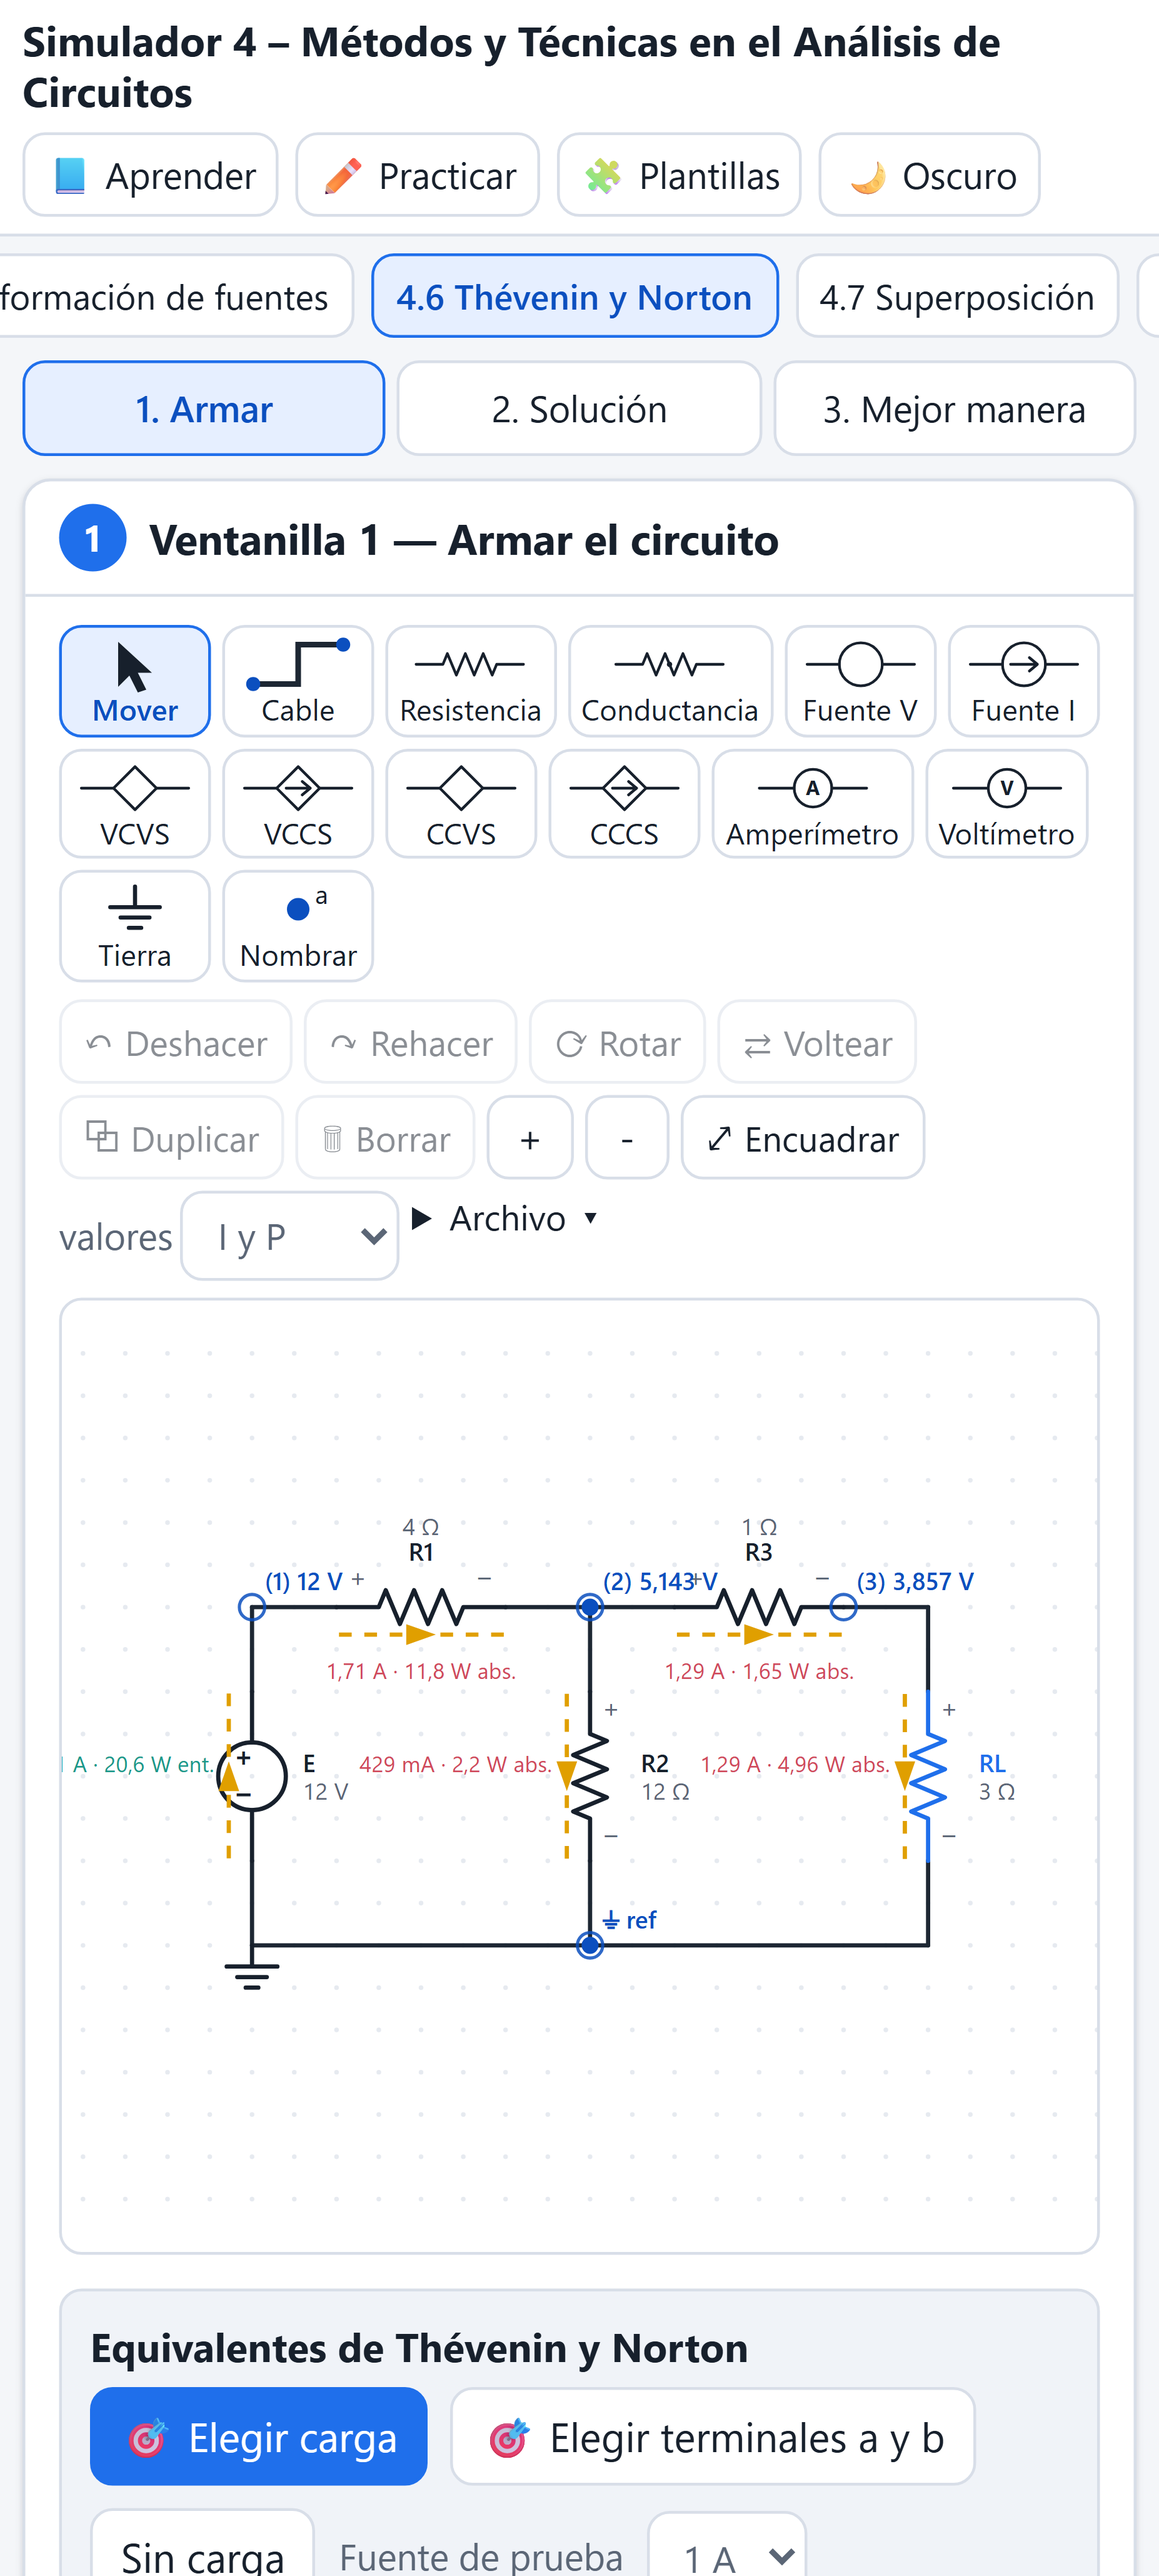
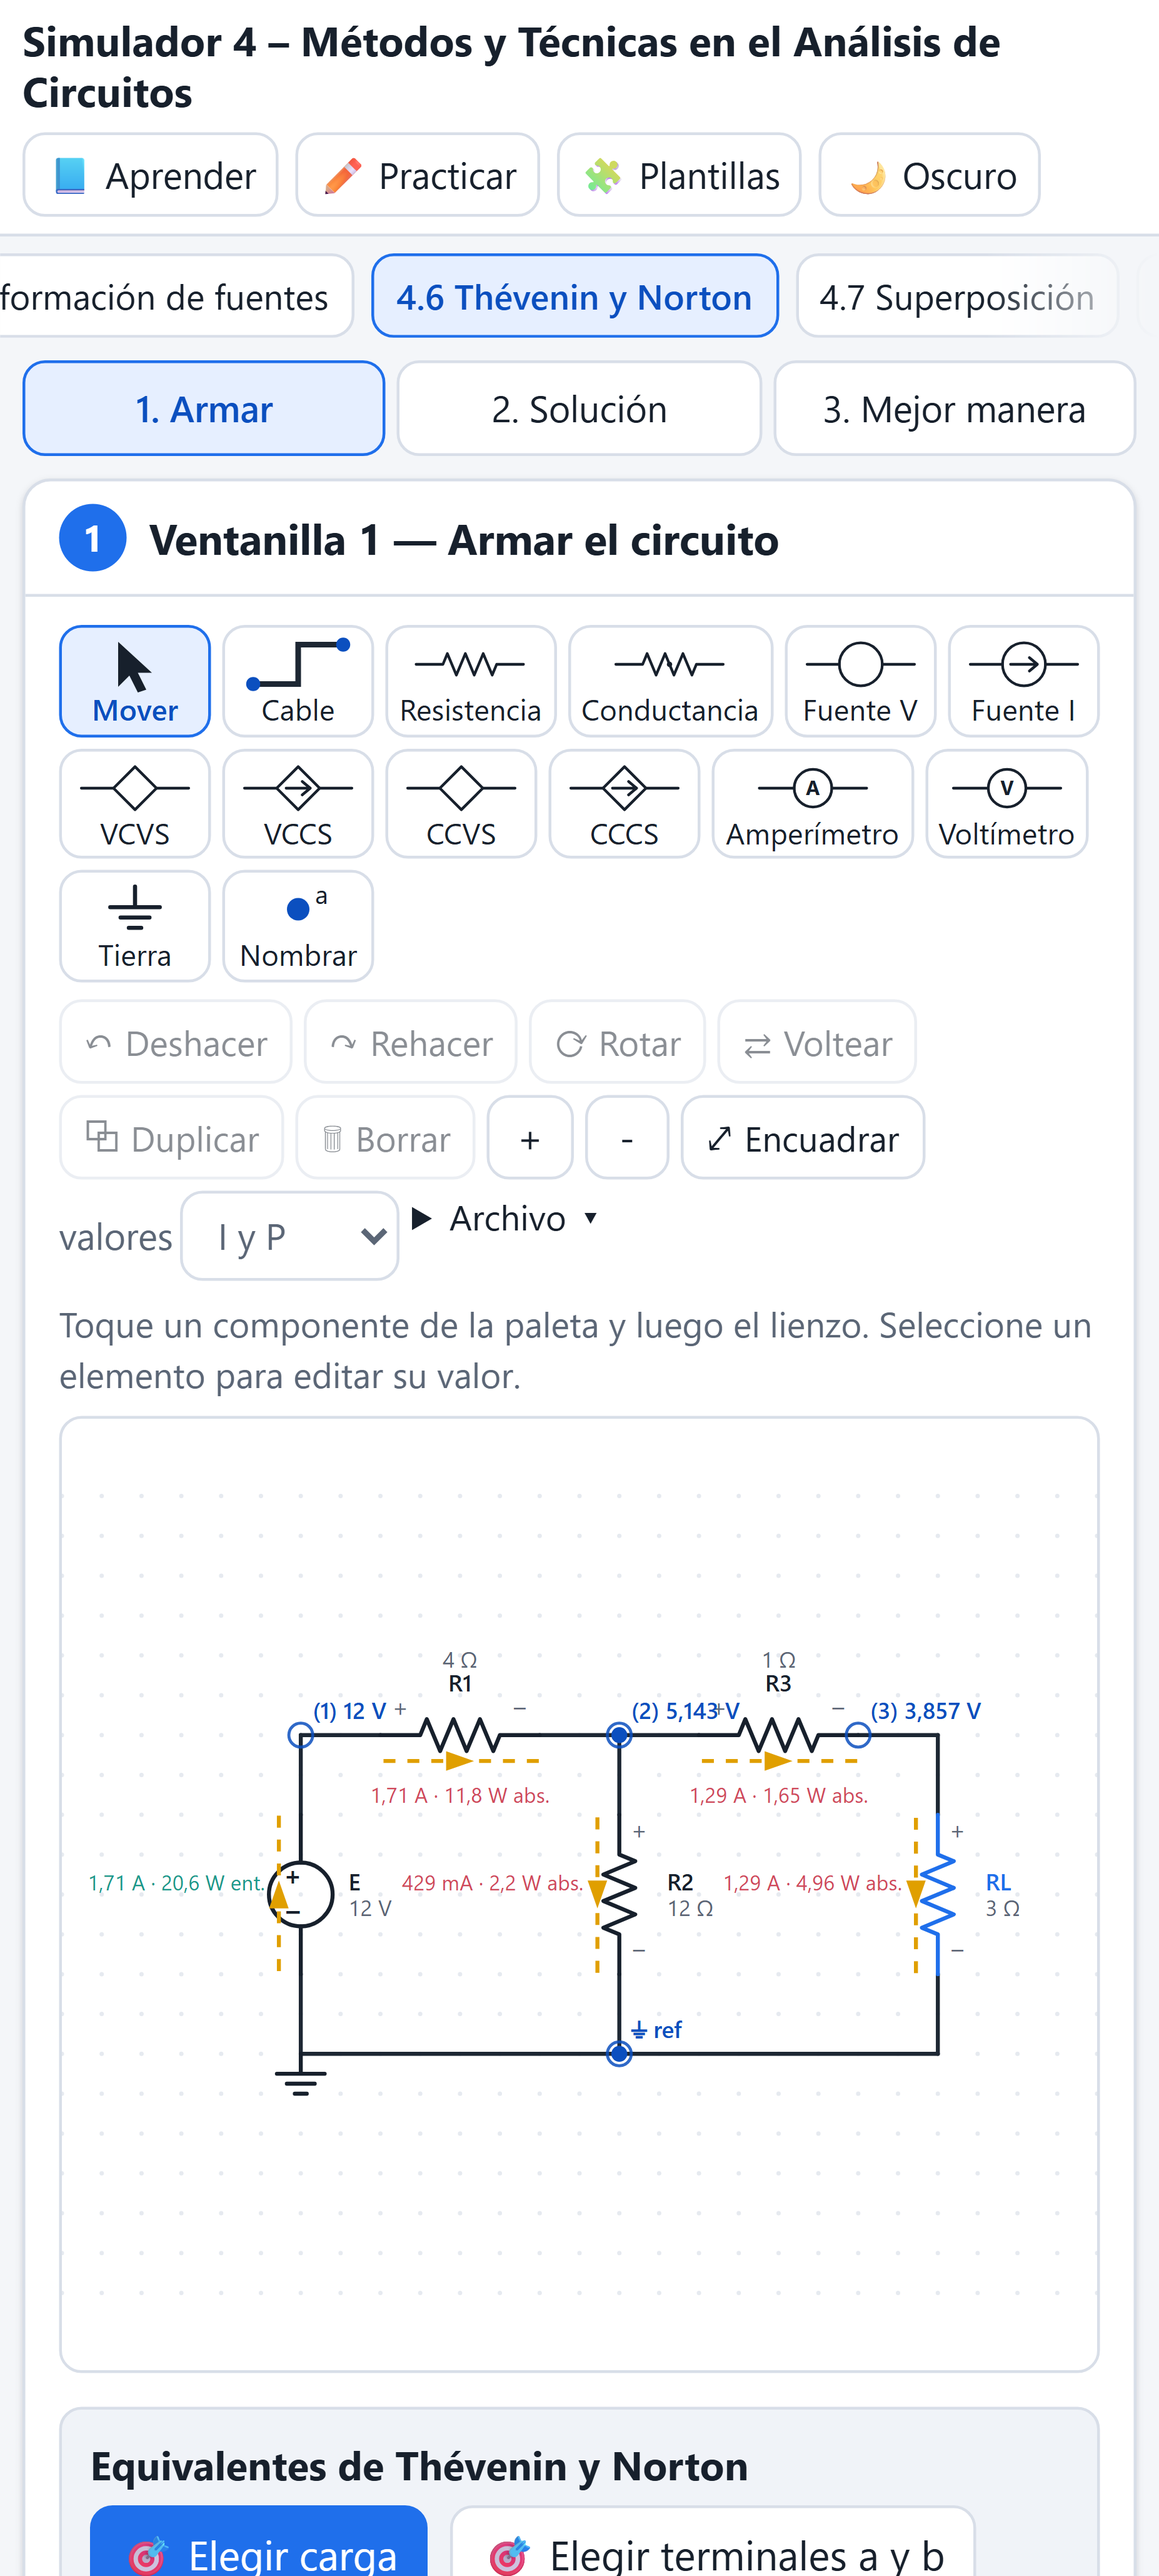
fix: correcciones de la revisión (validador, editor, LaTeX, nombres de nodos, gráficas)

diff --git a/src/core/solutions/dc.ts b/src/core/solutions/dc.ts
@@ -46,7 +46,7 @@ export function describeElement(e: NetElement, net: Analysis['net']): string {
     case 'C':
       return `Capacitor $${e.label} = ${texQ(e.value, 'F')}$ (en DC: circuito abierto)`;
     case 'SW':
-      return `Interruptor ${e.label} (${e.swMode === 'open' ? 'abierto' : 'cerrado'} en régimen permanente)`;
+      return `Interruptor ${e.label}: ${e.swMode === 'open' ? 'cerrado' : 'abierto'} para t < t₀ y se ${e.swMode === 'open' ? 'abre' : 'cierra'} en t₀ = ${e.t0 ?? 0} s`;
     default:
       return e.label;
   }
@@ -79,7 +79,8 @@ function eqBlocks(eqs: SysEq[], order: string[], controls: string[] = []): Block
       out.push(P(e.title + (hasCtrl ? '' : '')));
       out.push(T(e.raw, `(${e.n})`));
       const { lin, factor } = integerize(e.lin);
-      out.push(T(`\\Rightarrow\\; ${texEq(lin, order)}${factor !== 1 ? `\\qquad (\\times ${factor})` : ''}${hasCtrl ? '\\qquad \\text{(sustituyendo el control)}' : ''}`));
+      const usesCtrl = hasCtrl && /\\cdot|[0-9]+[A-Za-z]_|[A-Za-z]_\{[^}]*\}/.test(e.raw) && controls.some((c) => e.raw.includes(c.split(' = ')[0]));
+      out.push(T(`\\Rightarrow\\; ${texEq(lin, order)}${factor !== 1 ? `\\qquad (\\times ${factor})` : ''}${usesCtrl ? '\\qquad \\text{(sustituyendo el control)}' : ''}`));
     }
   }
   return out;
@@ -140,7 +141,7 @@ export function dcSolution(a: Analysis, method: DCMethod, sys: SolveMethod = 'ga
     if (!m.ok) {
       dev.push(P(`⚠ ${m.error}`));
     } else {
-      dev.push(P(`Mallas (sentido horario): ${m.meshNames.map((x) => `$${x}$`).join(', ')}.${m.supermeshes.length ? ' Supermallas: ' + m.supermeshes.map((s) => `mallas ${s.meshes.join('+')} (fuente${s.sources.length > 1 ? 's' : ''} ${s.sources.join(', ')})`).join('; ') + '.' : ''}`));
+      dev.push(P(`Mallas (sentido horario): ${m.meshNames.map((x) => `$${x}$`).join(', ')}.${m.supermeshes.filter((s) => s.meshes.length > 1).length ? ' Supermallas: ' + m.supermeshes.filter((s) => s.meshes.length > 1).map((s) => `mallas ${s.meshes.join('+')} (fuente${s.sources.length > 1 ? 's' : ''} ${s.sources.join(', ')})`).join('; ') + '.' : ''}`));
       if (m.controls.length) {
         dev.push(H('Variables de control en función de las corrientes de malla'));
         for (const c of m.controls) dev.push(T(c));
@@ -297,8 +298,9 @@ export function countEquations(a: Analysis): MethodCount {
   const vl = net.elements.filter((e) => isVoltageSourceLike(e.kind) || e.kind === 'AM').length;
   const il = net.elements.filter((e) => isCurrentSourceLike(e.kind)).length;
   const nodos = Math.max(0, a.topo.nodes - 1 - vl);
-  const mallas = Math.max(0, a.topo.meshes.length - il);
-  const ramas = a.topo.branches.length + il;
+  const nonPlanar = a.topo.crossings.length > 0 || a.topo.nonPlanarByEuler || a.topo.meshes.length !== a.topo.independentLoops;
+  const mallas = nonPlanar ? Infinity : Math.max(0, a.topo.meshes.length - il);
+  const ramas = a.topo.branches.length;
   const sources = net.elements.filter((e) => isVoltageSourceLike(e.kind) || isCurrentSourceLike(e.kind));
   let reducible = false;
   if (sources.length === 1 && !isDependent(sources[0].kind)) {
@@ -332,7 +334,7 @@ export function betterWayDC(a: Analysis): BetterDoc {
   return {
     method,
     why,
-    savings: `Corrientes de rama: ${c.ramas} incógnitas · Nodos: ${c.nodos} · Mallas: ${c.mallas}${c.reducible ? ' · Reducción: 0 sistemas' : ''}. El método recomendado ahorra ${Math.max(0, c.ramas - best)} ecuación(es) respecto al método de ramas.`,
+    savings: `Corrientes de rama: ${c.ramas} incógnitas · Nodos: ${c.nodos} · Mallas: ${isFinite(c.mallas) ? c.mallas : 'no aplica (no planar)'}${c.reducible ? ' · Reducción: 0 sistemas' : ''}. El método recomendado ahorra ${Math.max(0, c.ramas - best)} ecuación(es) respecto al método de ramas.`,
     formulas: [
       { tex: 'I = \\frac{V_i - V_j}{R}', meaning: 'Corriente que SALE del nodo i hacia el nodo j por una resistencia (ley de Ohm).' },
       { tex: 'V_{(+)} - V_{(-)} = E', meaning: 'Ecuación del supernodo: la fuente fija la diferencia entre sus dos nodos.' },

diff --git a/src/sim/modes.tsx b/src/sim/modes.tsx
@@ -104,7 +104,7 @@ export function CompareMode() {
                 </tr>
                 <tr>
                   <td>Mallas (mallas − fuentes I)</td>
-                  <td>{c.mallas}</td>
+                  <td>{isFinite(c.mallas) ? c.mallas : '—'}</td>
                   <td>{m.ok ? '✓ resuelto' : m.error}</td>
                 </tr>
                 <tr>
@@ -115,7 +115,7 @@ export function CompareMode() {
               </tbody>
             </table>
             <p>
-              <b>Sugerencia:</b> {c.reducible ? 'reducción serie‑paralelo (0 sistemas)' : c.nodos < c.mallas ? 'NODOS' : c.mallas < c.nodos ? 'MALLAS' : 'empate: cualquiera de los dos'}.
+              <b>Sugerencia:</b> {c.reducible ? 'reducción serie‑paralelo (0 sistemas)' : !m.ok ? 'NODOS (mallas no se puede aplicar)' : c.nodos < c.mallas ? 'NODOS' : c.mallas < c.nodos ? 'MALLAS' : 'empate: cualquiera de los dos'}.
             </p>
             {n.ok && m.ok && (
               <table className="data">
@@ -250,7 +250,7 @@ function TheveninPanel({ a, terms, load, prefer, maxP }: { a: Analysis; terms: n
         <Plot
           series={[
             { label: 'P en R_L [W]', x: xs, y: xs.map((r) => loadPower(th.Eth, th.Rth, r).P) },
-            { label: 'eficiencia η × P_max', x: xs, y: xs.map((r) => loadPower(th.Eth, th.Rth, r).eff * mp.Pmax), dash: [5, 4] },
+            
           ]}
           xLabel="R_L [Ω]"
           yLabel="P [W]"
@@ -258,7 +258,7 @@ function TheveninPanel({ a, terms, load, prefer, maxP }: { a: Analysis; terms: n
           points={[{ x: th.Rth, y: mp.Pmax }]}
           height={240}
         />
-        {RLnow && <p className="small">Con la carga actual R_L = {fmtEng(RLnow, 'Ω')}: P = {fmtEng(loadPower(th.Eth, th.Rth, RLnow).P, 'W', 5)} y η = {fmtNum(loadPower(th.Eth, th.Rth, RLnow).eff * 100, 4)} %.</p>}
+        {RLnow && <p className="small">Con la carga actual R_L = {fmtEng(RLnow, 'Ω')}: P = {fmtEng(loadPower(th.Eth, th.Rth, RLnow).P, 'W', 5)} y la eficiencia del equivalente de Thévenin es η = R_L/(R_TH + R_L) = {fmtNum(loadPower(th.Eth, th.Rth, RLnow).eff * 100, 4)} % (la del circuito original puede ser distinta).</p>}
       </>
     );
   }
@@ -396,7 +396,7 @@ function SuperpositionView({ a, circuit, target }: { a: Analysis; circuit: impor
   });
   dev.push(H('Suma de las respuestas'));
   dev.push(T(`I_{${tgt.label}} = ${parts.map((p) => (p.i < 0 ? `(${texNum(p.i, 5)})` : texNum(p.i, 5))).join(' + ')} = ${texQ(iT, 'A')}`, `(${parts.length + 1})`));
-  dev.push(P(`⚠ La potencia no se superpone: suma de potencias parciales = ${fmtEng(Psum, 'W', 5)}, pero la potencia real es ${fmtEng(PT, 'W', 5)}.`));
+  dev.push(P(Math.abs(Psum - PT) > 1e-9 * Math.max(1, Math.abs(PT)) ? `⚠ La potencia no se superpone: suma de potencias parciales = ${fmtEng(Psum, 'W', 5)}, pero la potencia real es ${fmtEng(PT, 'W', 5)}.` : `⚠ En este caso coinciden porque solo una fuente aporta a ${tgt.label}; en general la potencia NO se superpone (es cuadrática).`));
   const doc: StepDoc = {
     title: 'Superposición',
     concept: 'En un circuito lineal, la respuesta a varias fuentes independientes es la suma de las respuestas a cada fuente actuando sola. Las fuentes dependientes NO se apagan.',

diff --git a/src/core/engine/validate.ts b/src/core/engine/validate.ts
@@ -91,7 +91,8 @@ export function validate(c: Circuit | null, net: Netlist, opt: ValidateOptions =
     }
   }
   // camino cerrado: debe existir al menos un lazo con elementos que conducen
-  const conducts = (e: NetElement) => e.kind !== 'VM' && !(e.kind === 'SW' && !switchStateAfter(e) && mode === 'dc') && !(e.kind === 'C' && mode === 'dc');
+  // el concepto de circuito cerrado es geométrico: un lazo que pasa por un capacitor existe (su problema en DC lo informan otros errores)
+  const conducts = (e: NetElement) => e.kind !== 'VM' && !(e.kind === 'SW' && !switchStateAfter(e) && mode === 'dc');
   {
     const p2 = Array.from({ length: N }, (_, i) => i);
     const f2 = (x: number): number => (p2[x] === x ? x : (p2[x] = f2(p2[x])));
@@ -223,7 +224,7 @@ export function validate(c: Circuit | null, net: Netlist, opt: ValidateOptions =
         const x = r.el.get(e.id)!;
         if ((e.kind === 'R' || e.kind === 'G') && Math.abs(x.p) > 1e4)
           out.push(mk('exagerado', 'warning', `${e.label} disiparía ${fmtEng(x.p, 'W')} (corriente ${fmtEng(Math.abs(x.i), 'A')}).`, 'Es mucha potencia para una resistencia de circuito; las comunes son de ¼ a 5 W.', 'Una resistencia real se quemaría salvo que sea de potencia (calefactor, freno).', 'Si es un ejercicio de papel, ignore el aviso; si es un circuito real, aumente R o baje la fuente.', [e.id]));
-        if ((e.kind === 'R' || e.kind === 'G') && Math.abs(x.i) < 1e-15 && e.n1 !== e.n2 && Math.abs(r.V[e.n1]) + Math.abs(r.V[e.n2]) > 0)
+        if (mode === 'dc' && (e.kind === 'R' || e.kind === 'G') && Math.abs(x.i) < 1e-15 && e.n1 !== e.n2 && Math.abs(r.V[e.n1]) + Math.abs(r.V[e.n2]) > 0)
           out.push(mk('sincorriente', 'warning', `Por ${e.label} no circula corriente.`, 'Sus dos terminales están al mismo voltaje (puente balanceado o rama abierta).', 'Ese elemento no cumple ninguna función en este circuito.', 'Puede retirarlo sin cambiar el resto del circuito.', [e.id]));
       }
     }

diff --git a/src/core/engine/netlist.ts b/src/core/engine/netlist.ts
@@ -140,10 +140,24 @@ export function buildNetlist(c: Circuit): Netlist {
   const nodeCount = (groundRoot ? 1 : 0) + others.length;
   const nodePoints: Pt[][] = new Array(nodeCount).fill(null).map(() => []);
   for (const [r, g] of groups) if (index.has(r)) nodePoints[index.get(r)!] = g;
-  const nodeNames = new Array(nodeCount).fill('').map((_, i) => (i === 0 ? '0' : String(i)));
+  const nodeNames = new Array(nodeCount).fill('');
+  nodeNames[0] = '0';
+  const userNamed = new Set<number>();
   for (const nn of c.nodeNames ?? []) {
     const r = uf.find(key(nn));
-    if (index.has(r) && nn.name.trim()) nodeNames[index.get(r)!] = nn.name.trim();
+    if (index.has(r) && nn.name.trim()) {
+      nodeNames[index.get(r)!] = nn.name.trim();
+      userNamed.add(index.get(r)!);
+    }
+  }
+  const used = new Set(nodeNames.filter(Boolean));
+  let auto = 1;
+  for (let i = 1; i < nodeCount; i++) {
+    if (userNamed.has(i)) continue;
+    while (used.has(String(auto))) auto++;
+    nodeNames[i] = String(auto);
+    used.add(String(auto));
+    auto++;
   }
 
   const elements: NetElement[] = [];

diff --git a/src/core/ui/basic.tsx b/src/core/ui/basic.tsx
@@ -218,7 +218,9 @@ export interface Series {
   width?: number;
   stepped?: boolean;
 }
-export function Plot({ series, xLabel, yLabel, height = 260, vlines = [], points = [], onHover }: { series: Series[]; xLabel?: string; yLabel?: string; height?: number; vlines?: { x: number; label: string; color?: string }[]; points?: { x: number; y: number; label?: string; color?: string }[]; onHover?: (x: number | null) => void }) {
+const NO_VLINES: { x: number; label: string; color?: string }[] = [];
+const NO_POINTS: { x: number; y: number; label?: string; color?: string }[] = [];
+export function Plot({ series, xLabel, yLabel, height = 260, vlines = NO_VLINES, points = NO_POINTS, onHover }: { series: Series[]; xLabel?: string; yLabel?: string; height?: number; vlines?: { x: number; label: string; color?: string }[]; points?: { x: number; y: number; label?: string; color?: string }[]; onHover?: (x: number | null) => void }) {
   const ref = useRef<HTMLCanvasElement>(null);
   const chart = useRef<Chart | null>(null);
   const pal = usePalette();

diff --git a/src/core/engine/methods/thevenin.ts b/src/core/engine/methods/thevenin.ts
@@ -32,6 +32,8 @@ export function thevenin(net: Netlist, p: number, q: number, removeIds: string[]
   const base: TheveninResult = { ok: false, case: kase, Eth: 0, Rth: NaN, Icc: NaN, In: NaN, rMethod: 'apagar fuentes', openCircuit: null };
   if (p === q) return { ...base, error: 'Los dos terminales elegidos son el mismo nodo.' };
   // Voltaje de circuito abierto: se agrega una fuente de prueba de 0 A entre p y q (no altera nada) para asegurar el nodo
+  const ctrlRemoved = net.elements.find((e) => e.ctrlRef && remove.has(e.ctrlRef));
+  if (ctrlRemoved) return { ...base, error: `La carga elegida es la variable de control de ${ctrlRemoved.label}: si se retira, la fuente dependiente pierde su control. Elija los terminales a y b sin retirar ese elemento, o tome como carga otro elemento.` };
   const oc = solveMNA(net, { remove });
   if (!oc.ok) return { ...base, error: 'No se puede resolver el circuito con los terminales abiertos (revise que la red no quede flotante al retirar la carga).' };
   const Eth = oc.V[p] - oc.V[q];
